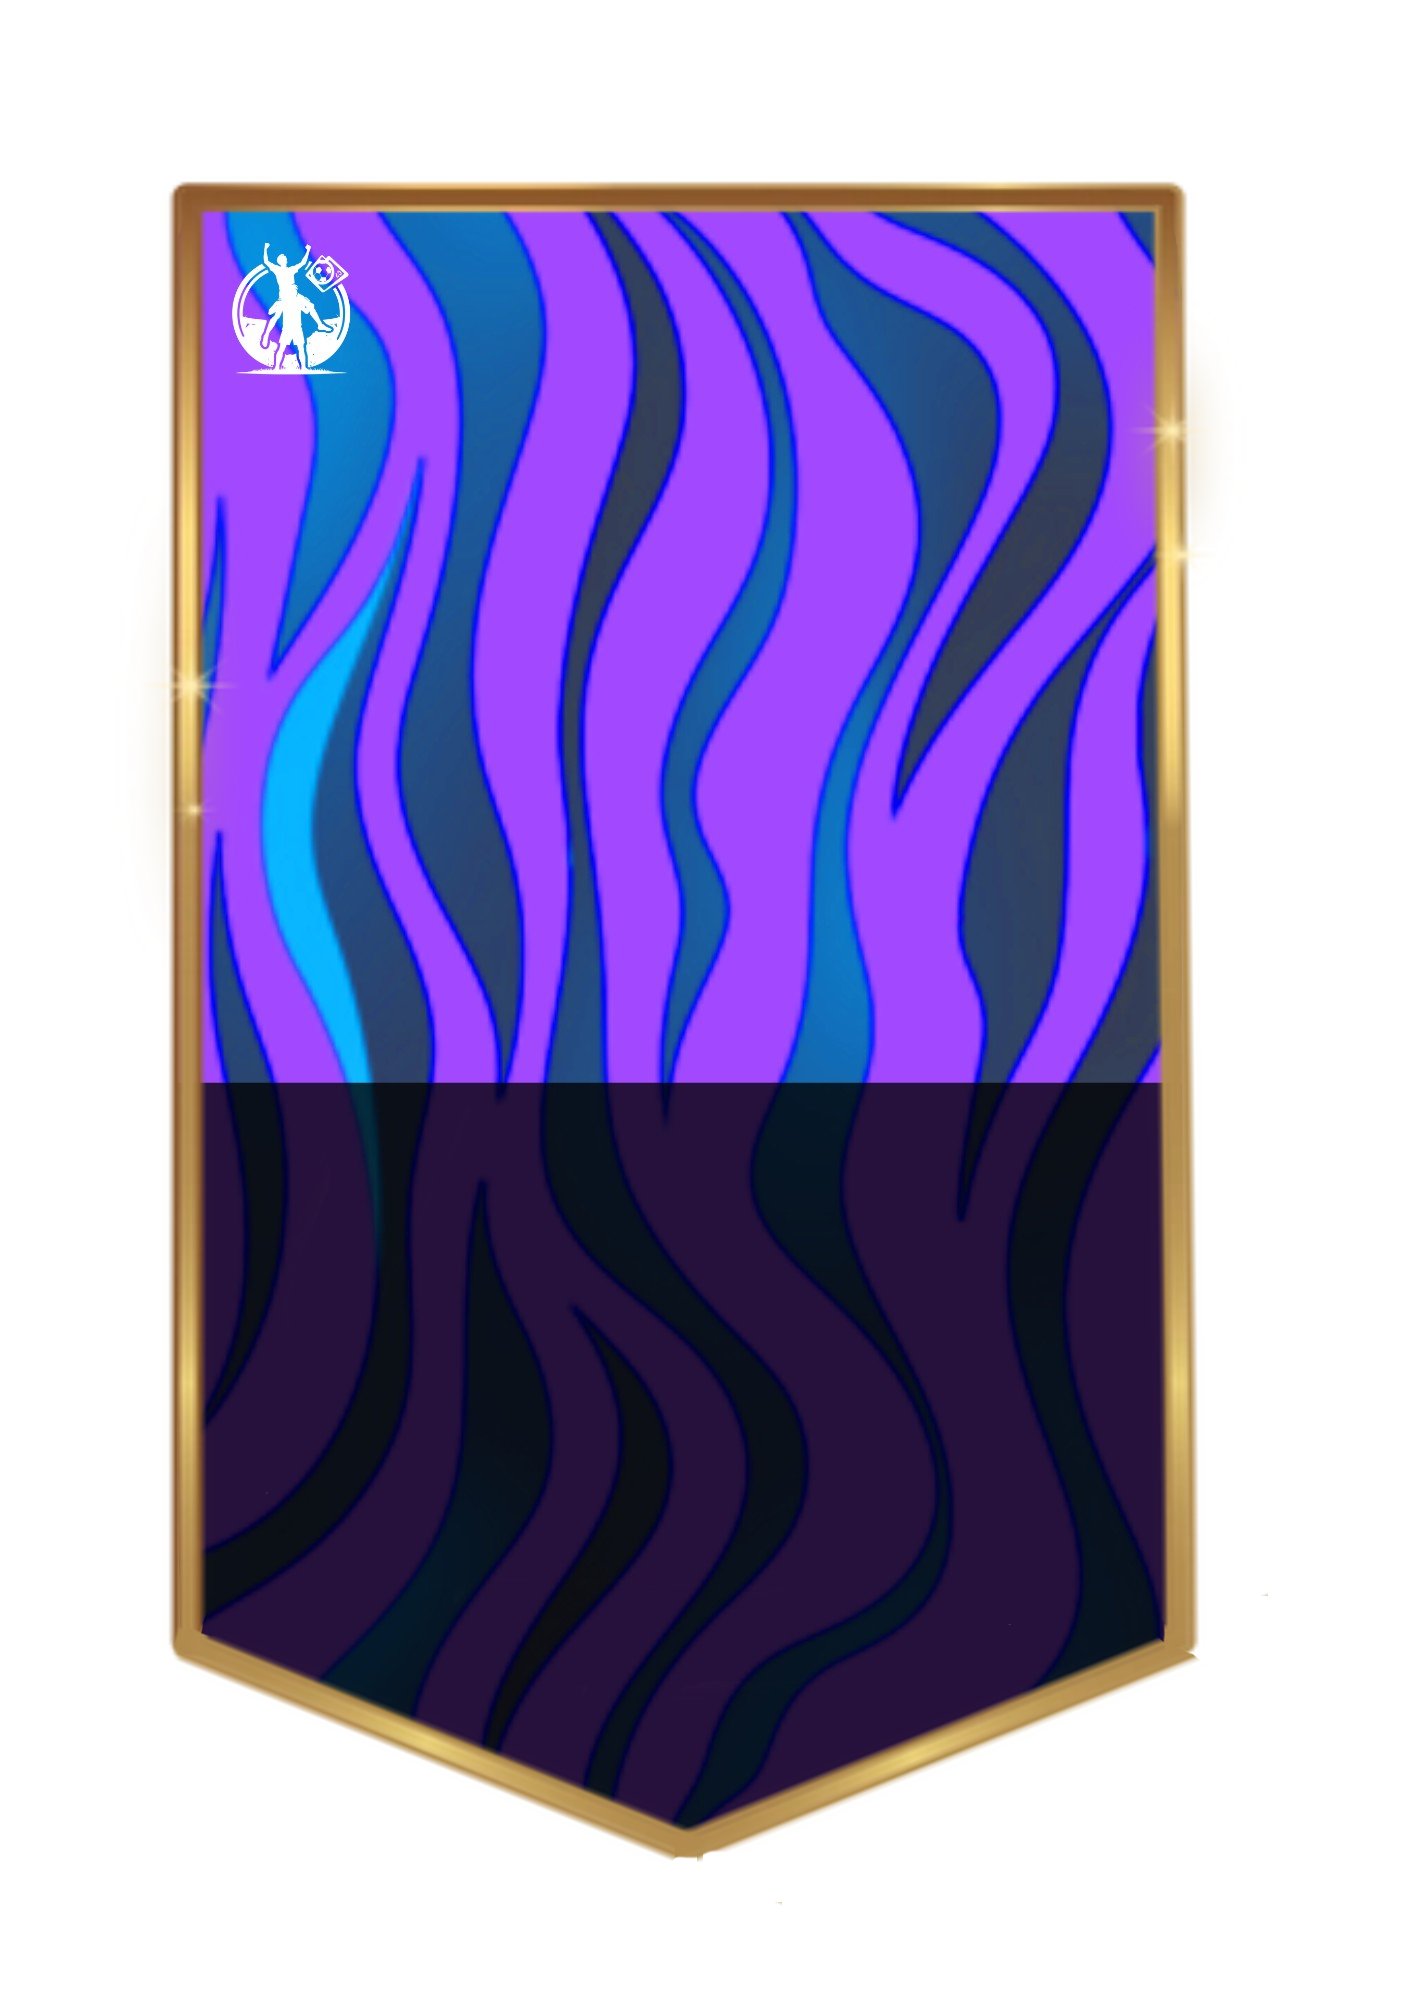
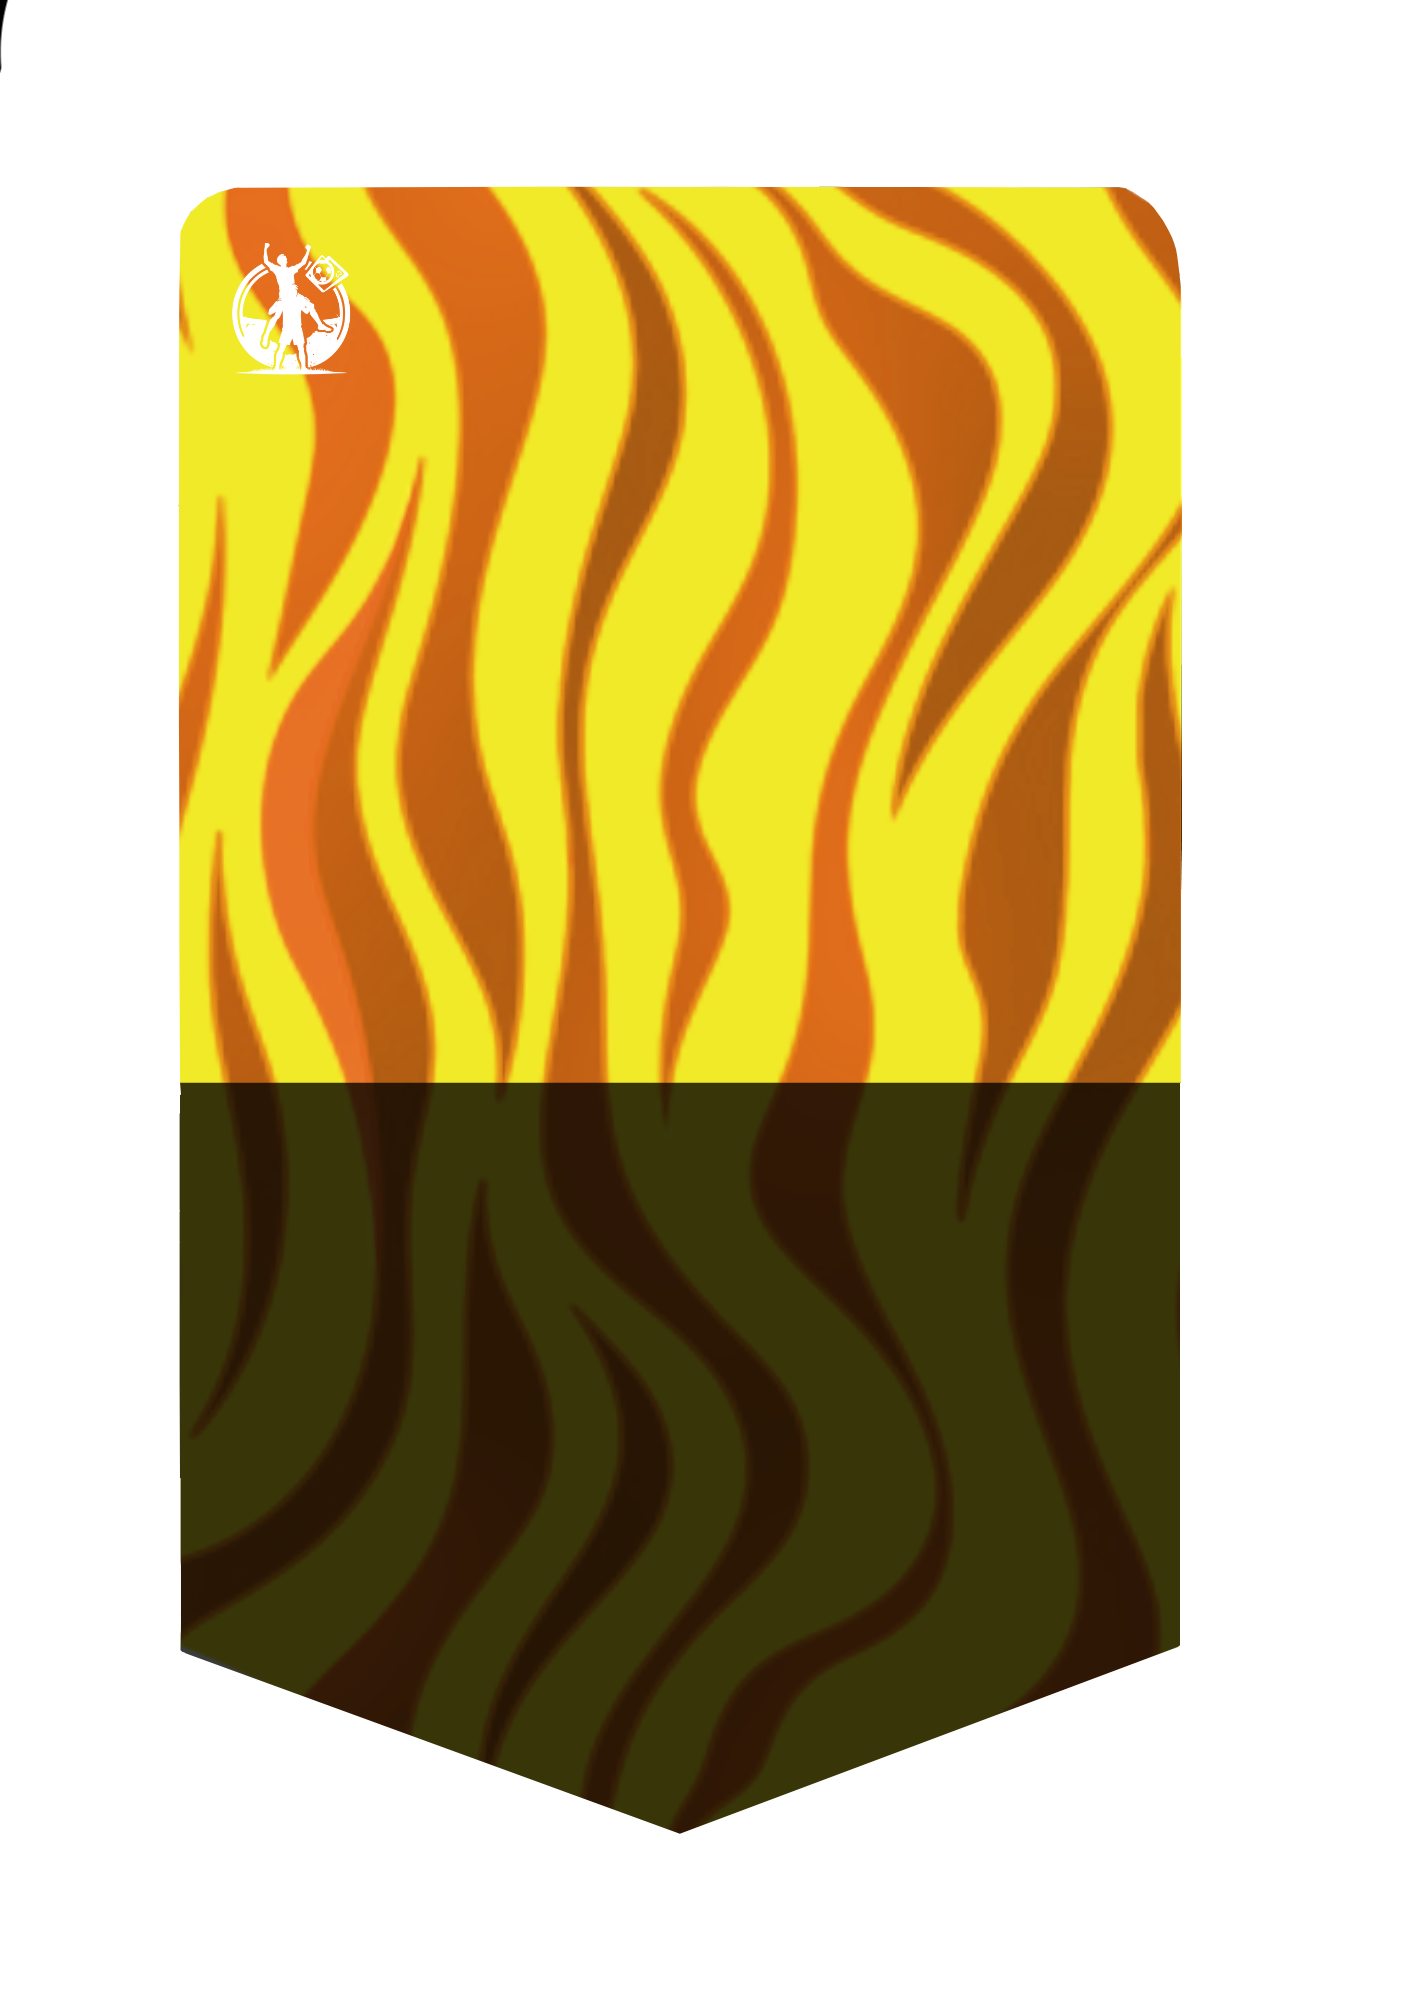
Añadir nuevos diseños de cartas, fotos de perfil y contador de cartas coleccionadas

diff --git a/lib/screens/collection_screen.dart b/lib/screens/collection_screen.dart
@@ -80,7 +80,7 @@ class _CollectionScreenState extends State<CollectionScreen> {
         break;
       case 'rareza':
 
-        sortedList.sort((a, b) => b.averageScore.compareTo(a.averageScore));
+        sortedList.sort((a, b) => (ordenRareza[b.rareza] ?? 0).compareTo(ordenRareza[a.rareza] ?? 0));
         break;
       case 'position':
         sortedList.sort((a, b) => b.position.compareTo(a.position));
@@ -250,11 +250,30 @@ class _CollectionScreenState extends State<CollectionScreen> {
                   children: [
                     SizedBox(
                       height: screenSize.height * 0.1,
-                      child: CustomSearchMenu<PlayerCard>(
-                        items: _playerCards,
-                        getItemName: (playerCard) =>
-                            '${playerCard.playerName} ${playerCard.playerSurname}',
-                        onFilteredItemsChanged: _updateFilteredItems,
+                      child: Column(
+                        children: [
+                          Expanded(
+                            child: CustomSearchMenu<PlayerCard>(
+                              items: _playerCards,
+                              getItemName: (playerCard) =>
+                                  '${playerCard.playerName} ${playerCard.playerSurname}',
+                              onFilteredItemsChanged: _updateFilteredItems,
+                            ),
+                          ),
+                          Padding(
+                            padding: EdgeInsets.only(right: screenSize.width * 0.03),
+                            child: Align(
+                              alignment: Alignment.centerRight,
+                              child: Text(
+                                "${_playerCards.where((card) => !(card.amount == 0)).length} / ${_playerCards.length}",
+                                style: TextStyle(
+                                  color: theme.colorScheme.onSurface,
+                                  fontSize: 16,
+                                ),
+                              ),
+                            ),
+                          ),
+                        ],
                       ),
                     ),
                     Expanded(

diff --git a/lib/screens/home/profile_screen.dart b/lib/screens/home/profile_screen.dart
@@ -15,18 +15,15 @@ class ProfileScreen extends StatelessWidget {
     List<String> images = [];
     String? selectedImage;
 
-    // TODO: Llamar al backend para obtener las imágenes disponibles
-    // Ejemplo:
-    // images = await UserService.getAvailableAvatars();
-    
-    // Mock temporal de imágenes
     images = [
-      'https://t3.ftcdn.net/jpg/00/64/67/80/360_F_64678017_zUpiZFjj04cnLri7oADnyMH0XBYyQghG.jpg',
-      'https://encrypted-tbn0.gstatic.com/images?q=tbn:ANd9GcRfK1qp4n0vbIkXCARdi3EdVxpbxPGWdxOJpw&s',
-      'https://t3.ftcdn.net/jpg/00/64/67/80/360_F_64678017_zUpiZFjj04cnLri7oADnyMH0XBYyQghG.jpg',
-      'https://encrypted-tbn0.gstatic.com/images?q=tbn:ANd9GcRfK1qp4n0vbIkXCARdi3EdVxpbxPGWdxOJpw&s',
-      'https://t3.ftcdn.net/jpg/00/64/67/80/360_F_64678017_zUpiZFjj04cnLri7oADnyMH0XBYyQghG.jpg',
-      'https://encrypted-tbn0.gstatic.com/images?q=tbn:ANd9GcRfK1qp4n0vbIkXCARdi3EdVxpbxPGWdxOJpw&s',
+      "assets/profile_1.png",
+      "assets/profile_2.png",
+      "assets/profile_3.png",
+      "assets/profile_4.png",
+      "assets/profile_5.png",
+      "assets/profile_6.png",
+      "assets/profile_7.png",
+      "assets/profile_8.png",
     ];
 
     await showDialog(
@@ -60,7 +57,9 @@ class ProfileScreen extends StatelessWidget {
                           ),
                           borderRadius: BorderRadius.circular(8),
                         ),
-                        child: Image.network(image, fit: BoxFit.cover),
+                        child: CircleAvatar(
+                          backgroundImage: AssetImage(image),        
+                        ),
                       ),
                     );
                   },

diff --git a/lib/widgets/card.dart b/lib/widgets/card.dart
@@ -2,6 +2,13 @@ import 'package:adrenalux_frontend_mobile/utils/screen_size.dart';
 import 'package:flutter/material.dart';
 import 'package:adrenalux_frontend_mobile/models/card.dart';
 
+Map<String, String> tiposCarta = {
+  CARTA_NORMAL: 'assets/card_template.png',
+  CARTA_LUXURY: 'assets/card_luxury.png',
+  CARTA_MEGALUXURY: 'assets/card_megaluxury.png',
+  CARTA_LUXURYXI: 'assets/card_luxuryxi.png',
+};
+
 class PlayerCardWidget extends StatefulWidget {
   final PlayerCard playerCard;
   final String size;
@@ -47,9 +54,7 @@ class _PlayerCardWidgetState extends State<PlayerCardWidget> {
   Widget build(BuildContext context) {
     final screenSize = ScreenSize.of(context);
     final double multiplier = _getMultiplier() * screenSize.width / 375;
-    final String cardTemplate = widget.playerCard.rareza == CARTA_MEGALUXURY || widget.playerCard.rareza == CARTA_LUXURYXI
-        ? 'assets/card_megaluxury.png'
-        : 'assets/card_template.png';
+    final String cardTemplate = tiposCarta[widget.playerCard.rareza] ?? 'assets/card_template.png';
     final bool isLocked = widget.playerCard.amount == 0;
 
     return Container(

diff --git a/lib/screens/home/sobre_screen.dart b/lib/screens/home/sobre_screen.dart
@@ -36,7 +36,6 @@ class _OpenPackScreenState extends State<OpenPackScreen> {
   @override
   void initState() {
     super.initState();
-    // Al crear los widgets, pasamos las imágenes directamente usando NetworkImage
     preloadedCardWidgets = widget.cartas.map((card) => PlayerCardWidget(
       key: ValueKey(card.hashCode), 
       playerCard: card,
@@ -53,10 +52,8 @@ class _OpenPackScreenState extends State<OpenPackScreen> {
   Future<void> _preloadImages() async {
     List<Future> precacheFutures = [];
 
-    // Precarga la imagen del pack
     precacheFutures.add(precacheImage(NetworkImage(widget.packImagePath), context));
 
-    // Precarga las imágenes de cada carta en paralelo
     for (var card in widget.cartas) {
       precacheFutures.add(precacheImage(NetworkImage(card.playerPhoto), context));
       if (card.teamLogo.isNotEmpty) {

diff --git a/lib/models/user.dart b/lib/models/user.dart
@@ -8,7 +8,7 @@ class User {
   String name = "",
       email = "",
       friendCode = "",
-      photo = 'https://t3.ftcdn.net/jpg/00/64/67/80/360_F_64678017_zUpiZFjj04cnLri7oADnyMH0XBYyQghG.jpg';
+      photo = 'assets/default_profile.png';
 
   int adrenacoins = 0,
       xp = 0,
@@ -37,7 +37,7 @@ void resetUser() {
   user.name = "";
   user.email = "";
   user.friendCode = "";
-  user.photo = 'https://t3.ftcdn.net/jpg/00/64/67/80/360_F_64678017_zUpiZFjj04cnLri7oADnyMH0XBYyQghG.jpg';
+  user.photo = 'assets/default_profile.png';
   user.adrenacoins = 0;
   user.xp = 0;
   user.level = 0;

diff --git a/lib/models/card.dart b/lib/models/card.dart
@@ -3,6 +3,13 @@ const String CARTA_LUXURY = "Luxury";
 const String CARTA_MEGALUXURY = "Megaluxury";
 const String CARTA_LUXURYXI = "Luxury XI";
 
+Map<String, int> ordenRareza = {
+  CARTA_NORMAL: 0,
+  CARTA_LUXURY: 1,
+  CARTA_MEGALUXURY: 2,
+  CARTA_LUXURYXI: 3,
+};
+
 class PlayerCard  {
   final String playerName;
   final String playerSurname;

diff --git a/lib/widgets/experience_circle.dart b/lib/widgets/experience_circle.dart
@@ -54,7 +54,7 @@ class ExperienceCircleAvatar extends StatelessWidget {
             ),
           ),
           child: CircleAvatar(
-            backgroundImage: NetworkImage(imagePath),
+            backgroundImage: AssetImage(imagePath),
             radius: avatarSize / 2,
           ),
 
